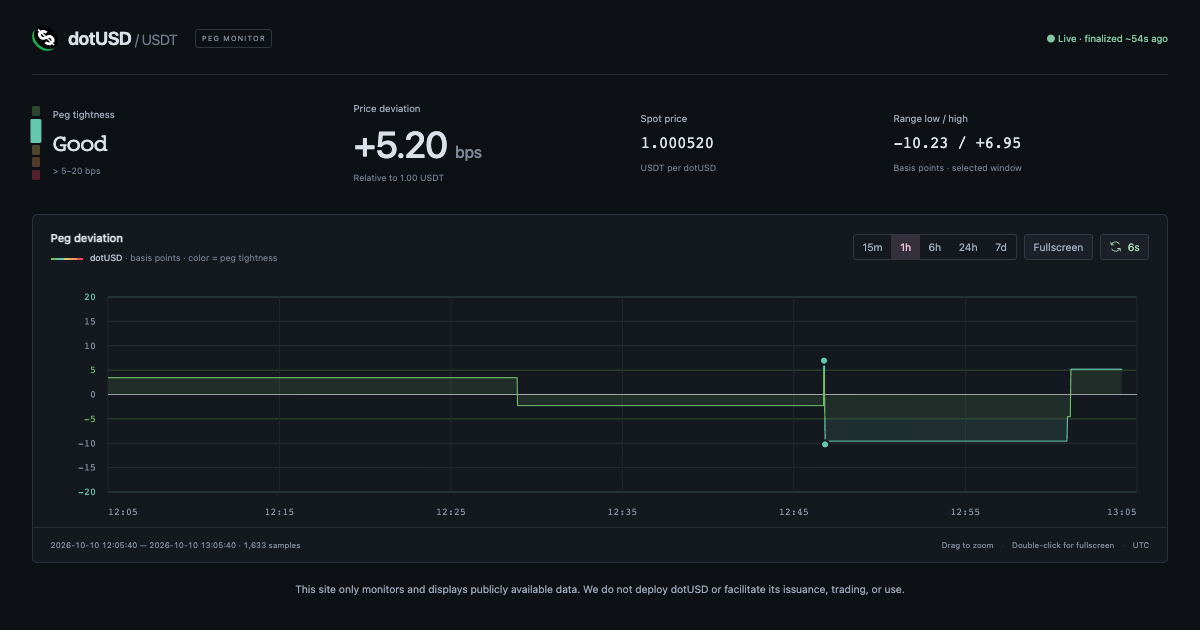
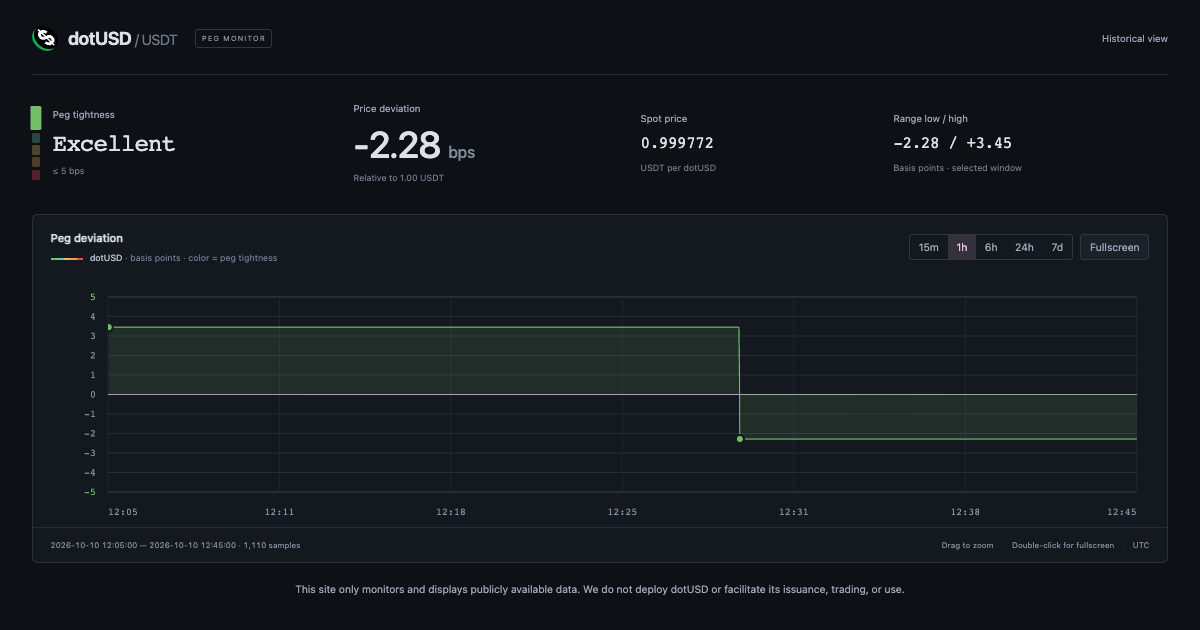
Show excellent historical interval in social preview

diff --git a/index.html b/index.html
@@ -8,7 +8,7 @@
 <meta property="og:url" content="https://dotusd.info/">
 <meta property="og:title" content="dotUSD / USDT · Peg monitor">
 <meta property="og:description" content="Monitor dotUSD / USDT peg deviation on Polkadot Asset Hub using publicly available data.">
-<meta property="og:image" content="https://dotusd.info/social-preview.png">
+<meta property="og:image" content="https://dotusd.info/social-preview.png?v=2">
 <meta property="og:image:type" content="image/png">
 <meta property="og:image:width" content="1200">
 <meta property="og:image:height" content="630">
@@ -16,7 +16,7 @@
 <meta name="twitter:card" content="summary_large_image">
 <meta name="twitter:title" content="dotUSD / USDT · Peg monitor">
 <meta name="twitter:description" content="Monitor dotUSD / USDT peg deviation on Polkadot Asset Hub using publicly available data.">
-<meta name="twitter:image" content="https://dotusd.info/social-preview.png">
+<meta name="twitter:image" content="https://dotusd.info/social-preview.png?v=2">
 <meta name="twitter:image:alt" content="Screenshot of the dotUSD / USDT peg monitor showing price deviation and historical chart.">
 <!-- INLINE_STYLE --></head>
 <body>
